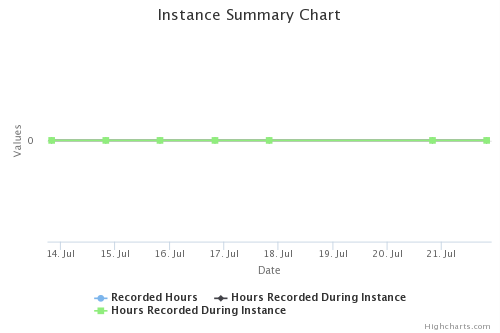
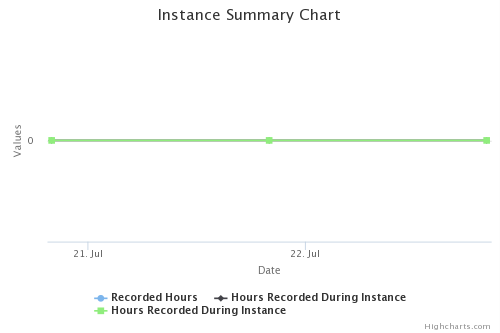
Draft 1 opportunity report finished, moving on to person detail pdf

diff --git a/app/pdfs/opportunity_report_pdf.rb b/app/pdfs/opportunity_report_pdf.rb
@@ -16,10 +16,8 @@ class OpportunityReportPdf < Prawn::Document
 
   def header
     #This inserts an image in the pdf file and sets the size of the image
-    y_position = cursor - 50
-
-    bounding_box([0, y_position], :width => 600, :height => 25) do
-      text "Opportunity Summary Between #{@start_date.to_formatted_s(:short)} and #{@end_date.to_formatted_s(:short)}", size: 16
+    bounding_box([0, cursor], :width => 600, :height => 25) do
+      text "Opportunity Summary Between #{@start_date.strftime("%m-%d-%Y")} and #{@end_date.strftime("%m-%d-%Y")}", size: 16
     end
 
     bounding_box([0, cursor], :width => 270, :height => 25) do
@@ -27,7 +25,7 @@ class OpportunityReportPdf < Prawn::Document
     end
 
     bounding_box([0, cursor], :width => 270, :height => 50) do
-      text "Created At: #{Time.now.to_formatted_s(:short)}", size: 11
+      text "Created At: #{Time.now.strftime("%A - %B %-d, %Y")}", size: 11
     end
     # if @organization.fb_id
     #   image "#{Rails.root}/app/assets/images/header.png", width: 530, height: 150

diff --git a/app/models/opportunity.rb b/app/models/opportunity.rb
@@ -122,8 +122,11 @@ class Opportunity < ActiveRecord::Base
     end
     
     instances_statistics.each do |i|
-      @instance_hours_series["data"].push([(DateTime.parse(i.end_time).to_f * 1000), i.instance_hours])
-      @instance_people_series["data"].push([(DateTime.parse(i.end_time).to_f * 1000), i.instance_people_count])
+      puts i.end_time
+      if !i.end_time.nil?  && i.end_time >= start_date && i.end_time <= end_date
+        @instance_hours_series["data"].push([(DateTime.parse(i.end_time).to_f * 1000), i.instance_hours])
+        @instance_people_series["data"].push([(DateTime.parse(i.end_time).to_f * 1000), i.instance_people_count])
+      end
     end
     options["series"].push(@recorded_hours_series)
     options["series"].push(@instance_hours_series)
